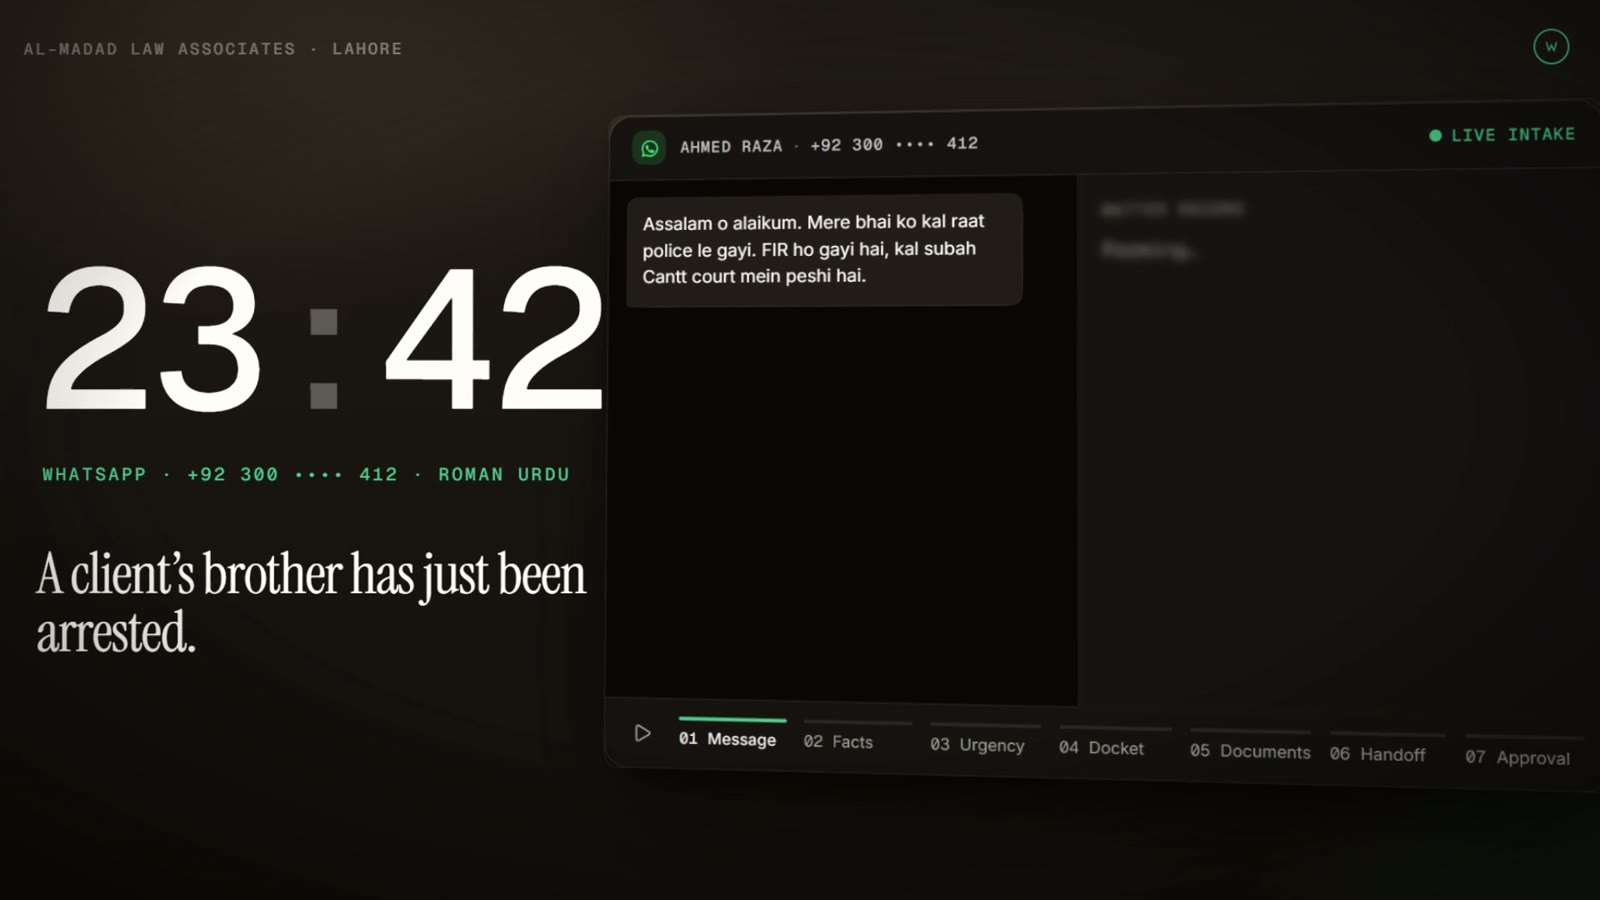
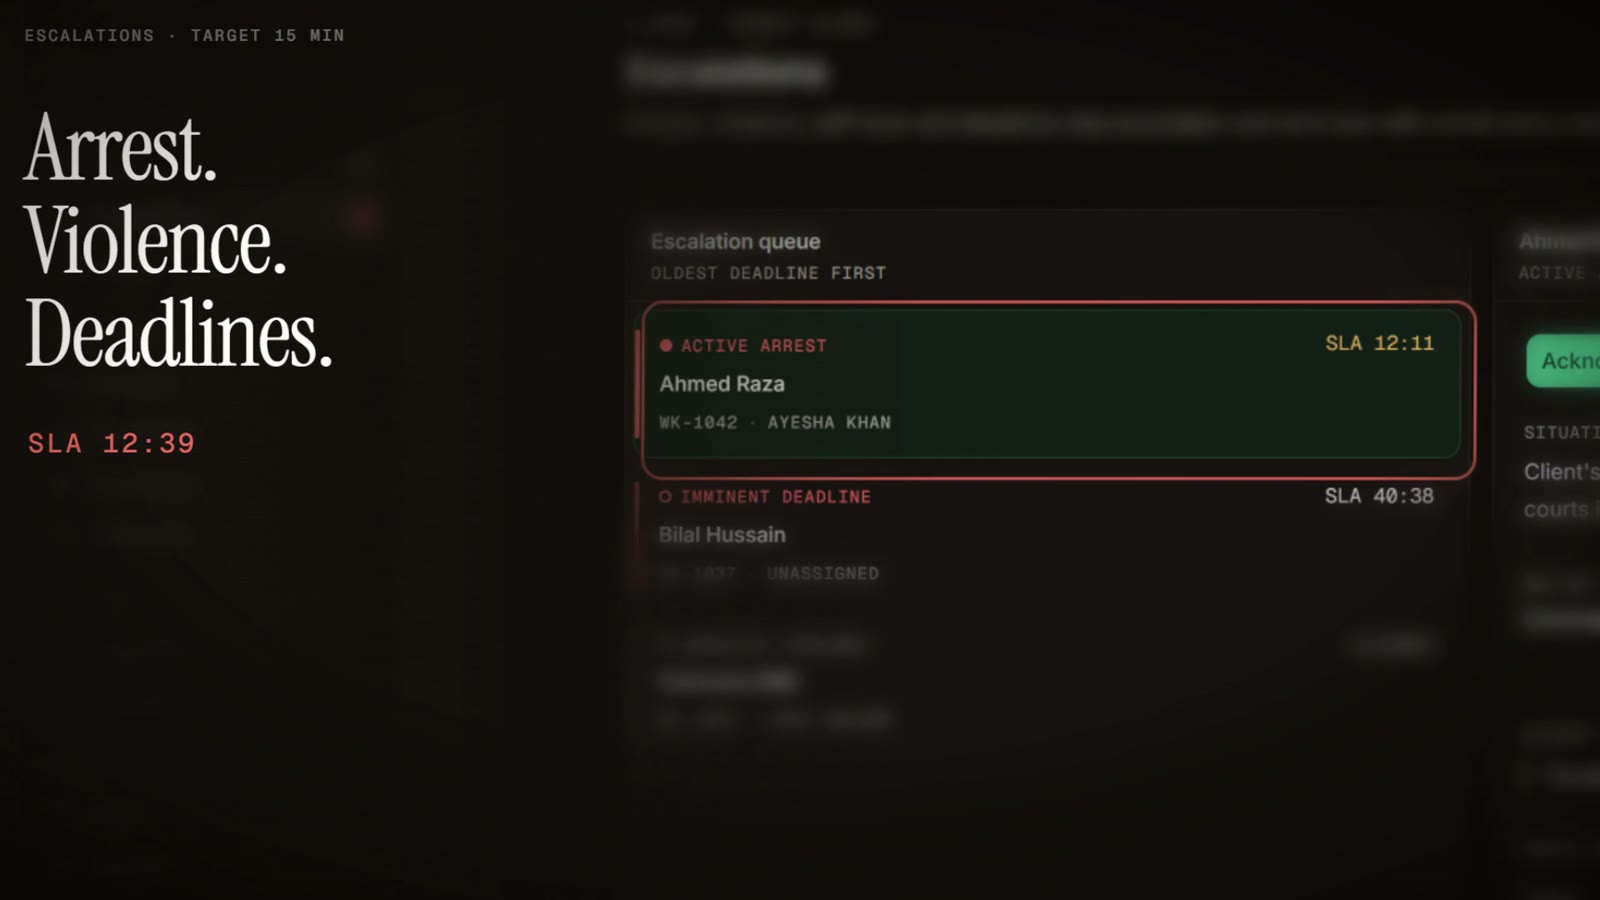
feat(web): landing FAQ, distinct film poster, one-line trust row, steady mobile hero
- FAQ section ("Before you switch it on") answering six partner objections, en + ur
- Film poster now the escalation shot instead of duplicating the hero
- Hero trust row trimmed to three items so it no longer orphans a line
- Approval gate overlays the thread at all sizes; mobile frame no longer jumps ~260px

diff --git a/apps/web/src/lib/translations.ts b/apps/web/src/lib/translations.ts
@@ -1045,6 +1045,20 @@ export const translations = {
     filmEyebrow: 'The film · 45 seconds',
     filmTitle: 'One night, one matter.',
     filmLede: 'A client\'s message at 23:42. A lawyer-ready brief by 09:00. Watch Wakeel carry it — and watch who makes the decision.',
+    faqLabel: 'Questions partners ask',
+    faqTitle: 'Before you switch it on.',
+    faqQ1: 'Does Wakeel give legal advice?',
+    faqA1: 'No. It collects facts, answers only the questions your firm has approved, and tells every client in its first message that it is an AI assistant, not a lawyer. Legal judgment stays with your advocates.',
+    faqQ2: 'Do we keep our own WhatsApp number?',
+    faqA2: 'Yes. You link your firm’s existing number — by scanning a QR code or through the official WhatsApp Business API. Clients keep messaging the number they already know.',
+    faqQ3: 'Can anything reach a client without us seeing it?',
+    faqA3: 'Only answers from your approved knowledge library are sent automatically — and you can switch that off. Everything else waits as a draft until a lawyer approves or edits it, and every send is recorded.',
+    faqQ4: 'What happens with an arrest or a deadline at night?',
+    faqA4: 'Arrest, violence, self-harm and short-deadline signals stop automation immediately. The matter goes to your escalation queue with a written brief and a response clock, and the assigned lawyer is alerted.',
+    faqQ5: 'Where does our clients’ data go?',
+    faqA5: 'Each firm’s data is separated inside the database itself, not only by application code. Documents, transcripts and ID images are never sent to a third-party AI by default.',
+    faqQ6: 'Which languages does it handle?',
+    faqA6: 'English, Urdu and Roman Urdu — including voice notes, which are transcribed. It replies in the language the client wrote in.',
   },
   ur: {
     overview: 'جائزہ',
@@ -2072,6 +2086,20 @@ export const translations = {
     filmEyebrow: 'فلم · ۴۵ سیکنڈ',
     filmTitle: 'ایک رات، ایک معاملہ۔',
     filmLede: 'رات ۱۱:۴۲ پر مؤکل کا پیغام۔ صبح ۹ بجے تک وکیل کے لیے تیار بریف۔ دیکھیں ویکل اسے کیسے آگے بڑھاتا ہے — اور فیصلہ کون کرتا ہے۔',
+    faqLabel: 'پارٹنرز کے سوالات',
+    faqTitle: 'اسے شروع کرنے سے پہلے۔',
+    faqQ1: 'کیا ویکل قانونی مشورہ دیتا ہے؟',
+    faqA1: 'نہیں۔ یہ حقائق جمع کرتا ہے، صرف وہ سوالات جواب دیتا ہے جو آپ کی فرم نے منظور کیے ہوں، اور ہر مؤکل کو پہلے ہی پیغام میں بتاتا ہے کہ یہ اے آئی معاون ہے، وکیل نہیں۔ قانونی فیصلہ آپ کے وکلا کے پاس رہتا ہے۔',
+    faqQ2: 'کیا ہمارا اپنا واٹس ایپ نمبر ہی رہے گا؟',
+    faqA2: 'جی ہاں۔ آپ اپنی فرم کا موجودہ نمبر جوڑتے ہیں — کیو آر کوڈ اسکین کر کے یا سرکاری واٹس ایپ بزنس اے پی آئی کے ذریعے۔ مؤکل اسی نمبر پر پیغام بھیجتے رہتے ہیں جو وہ پہلے سے جانتے ہیں۔',
+    faqQ3: 'کیا کوئی پیغام ہمارے دیکھے بغیر مؤکل تک جا سکتا ہے؟',
+    faqA3: 'صرف آپ کی منظور شدہ معلوماتی لائبریری کے جوابات خودکار طور پر جاتے ہیں — اور آپ یہ بند بھی کر سکتے ہیں۔ باقی سب مسودے کی صورت میں وکیل کی منظوری یا ترمیم کا انتظار کرتا ہے، اور ہر ترسیل ریکارڈ ہوتی ہے۔',
+    faqQ4: 'رات کو گرفتاری یا ڈیڈ لائن کی صورت میں کیا ہوتا ہے؟',
+    faqA4: 'گرفتاری، تشدد، خود کو نقصان اور قریب آتی ڈیڈ لائن کے اشارے فوراً آٹومیشن روک دیتے ہیں۔ معاملہ تحریری بریف اور جوابی وقت کے ساتھ ایسکلیشن قطار میں جاتا ہے، اور متعلقہ وکیل کو اطلاع دی جاتی ہے۔',
+    faqQ5: 'ہمارے مؤکلوں کا ڈیٹا کہاں جاتا ہے؟',
+    faqA5: 'ہر فرم کا ڈیٹا صرف ایپلیکیشن کوڈ سے نہیں بلکہ خود ڈیٹا بیس کے اندر الگ رکھا جاتا ہے۔ دستاویزات، تحریری ریکارڈ اور شناختی کارڈ کی تصاویر بطورِ طے شدہ کسی بیرونی اے آئی کو نہیں بھیجی جاتیں۔',
+    faqQ6: 'یہ کون سی زبانیں سنبھالتا ہے؟',
+    faqA6: 'انگریزی، اردو اور رومن اردو — بشمول وائس نوٹس، جنہیں تحریر میں بدلا جاتا ہے۔ یہ اسی زبان میں جواب دیتا ہے جس میں مؤکل نے لکھا ہو۔',
   },
 } as const;
 

diff --git a/apps/web/src/app/(marketing)/page.tsx b/apps/web/src/app/(marketing)/page.tsx
@@ -8,6 +8,7 @@ import {
   Mic,
   Phone,
   PhoneMissed,
+  Plus,
   ShieldCheck,
 } from 'lucide-react';
 import { ApprovalGate } from '@/components/approval-gate';
@@ -23,6 +24,15 @@ import { Button } from '@/components/ui/button';
 import { DEMO_BRIEF } from '@/lib/demo-data';
 import { useLanguage } from '@/lib/language';
 import { cn } from '@/lib/utils';
+
+const FAQ = [
+  ['faqQ1', 'faqA1'],
+  ['faqQ2', 'faqA2'],
+  ['faqQ3', 'faqA3'],
+  ['faqQ4', 'faqA4'],
+  ['faqQ5', 'faqA5'],
+  ['faqQ6', 'faqA6'],
+] as const;
 
 export default function Home() {
   const { t, dir } = useLanguage();
@@ -200,6 +210,22 @@ export default function Home() {
           <TierLedger />
         </Section>
 
+        {/* ── FAQ — the objections, answered ──────────────────────────── */}
+        <Section id="faq" labelledBy="faq-title" innerClassName="grid gap-12 lg:grid-cols-[minmax(0,0.8fr)_minmax(0,1.2fr)] lg:gap-20">
+          <SectionHeading id="faq-title" eyebrow={t('faqLabel')} title={t('faqTitle')} urdu={isRtl} />
+          <div className="divide-y divide-border border-y border-border">
+            {FAQ.map(([q, a]) => (
+              <details key={q} className="group py-1">
+                <summary className="flex cursor-pointer list-none items-center justify-between gap-6 py-4 text-start [&::-webkit-details-marker]:hidden">
+                  <span className={cn('text-[1.05rem] font-semibold', urdu)}>{t(q)}</span>
+                  <Plus className="size-5 shrink-0 text-primary transition-transform duration-200 group-open:rotate-45" aria-hidden />
+                </summary>
+                <p className={cn('max-w-2xl pb-5 text-[0.95rem] leading-7 text-muted-foreground', urdu)}>{t(a)}</p>
+              </details>
+            ))}
+          </div>
+        </Section>
+
         {/* ── ACT 08 · Closing ────────────────────────────────────────── */}
         <Section tone="stage" size="lg" labelledBy="final-title">
           <div className="mx-auto max-w-3xl text-center">
@@ -274,7 +300,7 @@ function Hero() {
           </div>
           <Docket
             className="mt-9 border-t border-border pt-5"
-            items={[t('lpHeroLangs'), t('lpHeroUrgent'), t('lpHeroNoAdvice'), t('lpHeroApproval')]}
+            items={[t('lpHeroLangs'), t('lpHeroUrgent'), t('lpHeroNoAdvice')]}
           />
         </div>
 

diff --git a/apps/web/src/components/matter-frame.tsx b/apps/web/src/components/matter-frame.tsx
@@ -250,7 +250,7 @@ export function MatterFrame({ className }: { className?: string }) {
             <Bubble from="client" time="23:43">{m.thread.c2}</Bubble>
           </Reveal>
           {/* Overlays the thread's tail instead of reserving height, so the hero frame stays compact. */}
-          <Reveal on={on(7)} fresh={fresh(7)} className="sm:absolute sm:inset-x-0 sm:bottom-0 sm:z-10 sm:rounded-none sm:bg-gradient-to-t sm:from-sunken sm:from-75% sm:to-transparent sm:px-3 sm:pb-3 sm:pt-10">
+          <Reveal on={on(7)} fresh={fresh(7)} className="absolute inset-x-0 bottom-0 z-10 rounded-none bg-gradient-to-t from-sunken from-75% to-transparent px-3 pb-3 pt-10">
             <ApprovalGate demo emphasize={step === LAST && running} meta={t('mfToClient')} className="bg-card shadow-[var(--shadow-frame)]">
               <span dir="ltr" className="block text-start">{m.thread.draft}</span>
             </ApprovalGate>

diff --git a/apps/web/src/app/globals.css b/apps/web/src/app/globals.css
@@ -305,11 +305,9 @@
   from { background-position: 150% 0; }
   to { background-position: -50% 0; }
 }
-/* From sm up the approval gate overlays the thread tail; fade what it covers. */
-@media (min-width: 640px) {
-  .matter-frame[data-step="7"] .hide-at-gate {
-    opacity: 0;
-  }
+/* The approval gate overlays the thread tail (no reserved height); fade what it covers. */
+.matter-frame[data-step="7"] .hide-at-gate {
+  opacity: 0;
 }
 .gate-attract {
   animation: wk-attract 1.8s ease-out infinite;
